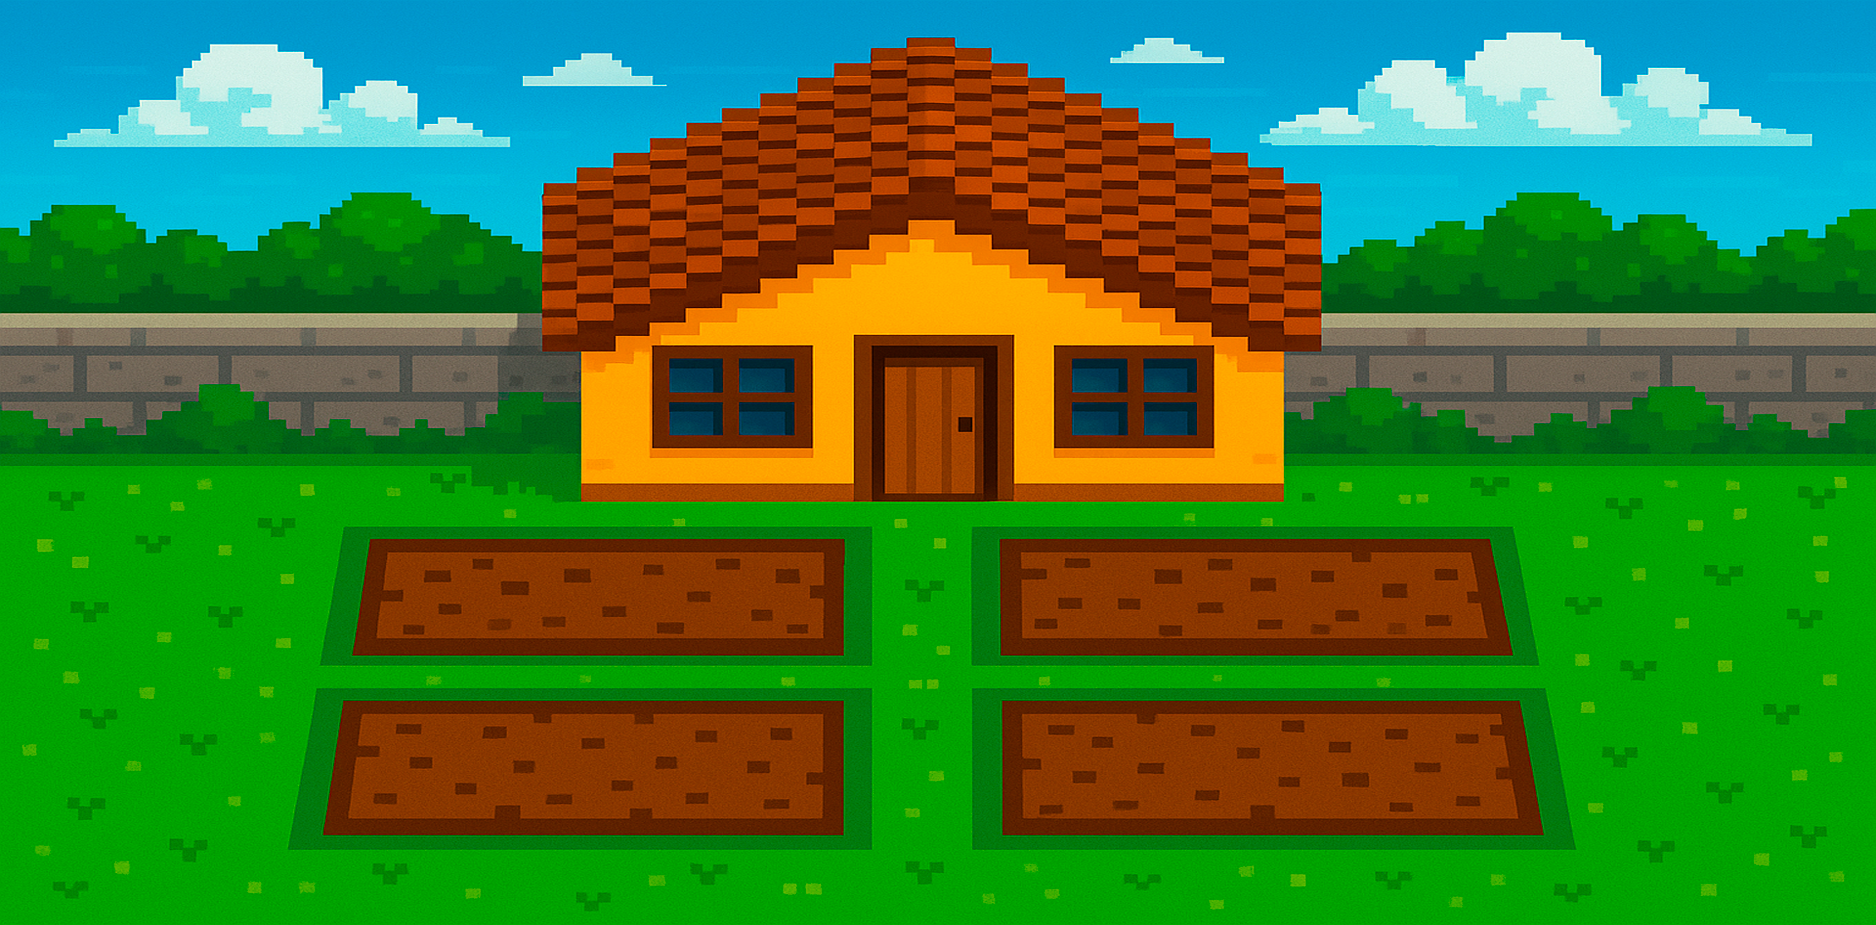
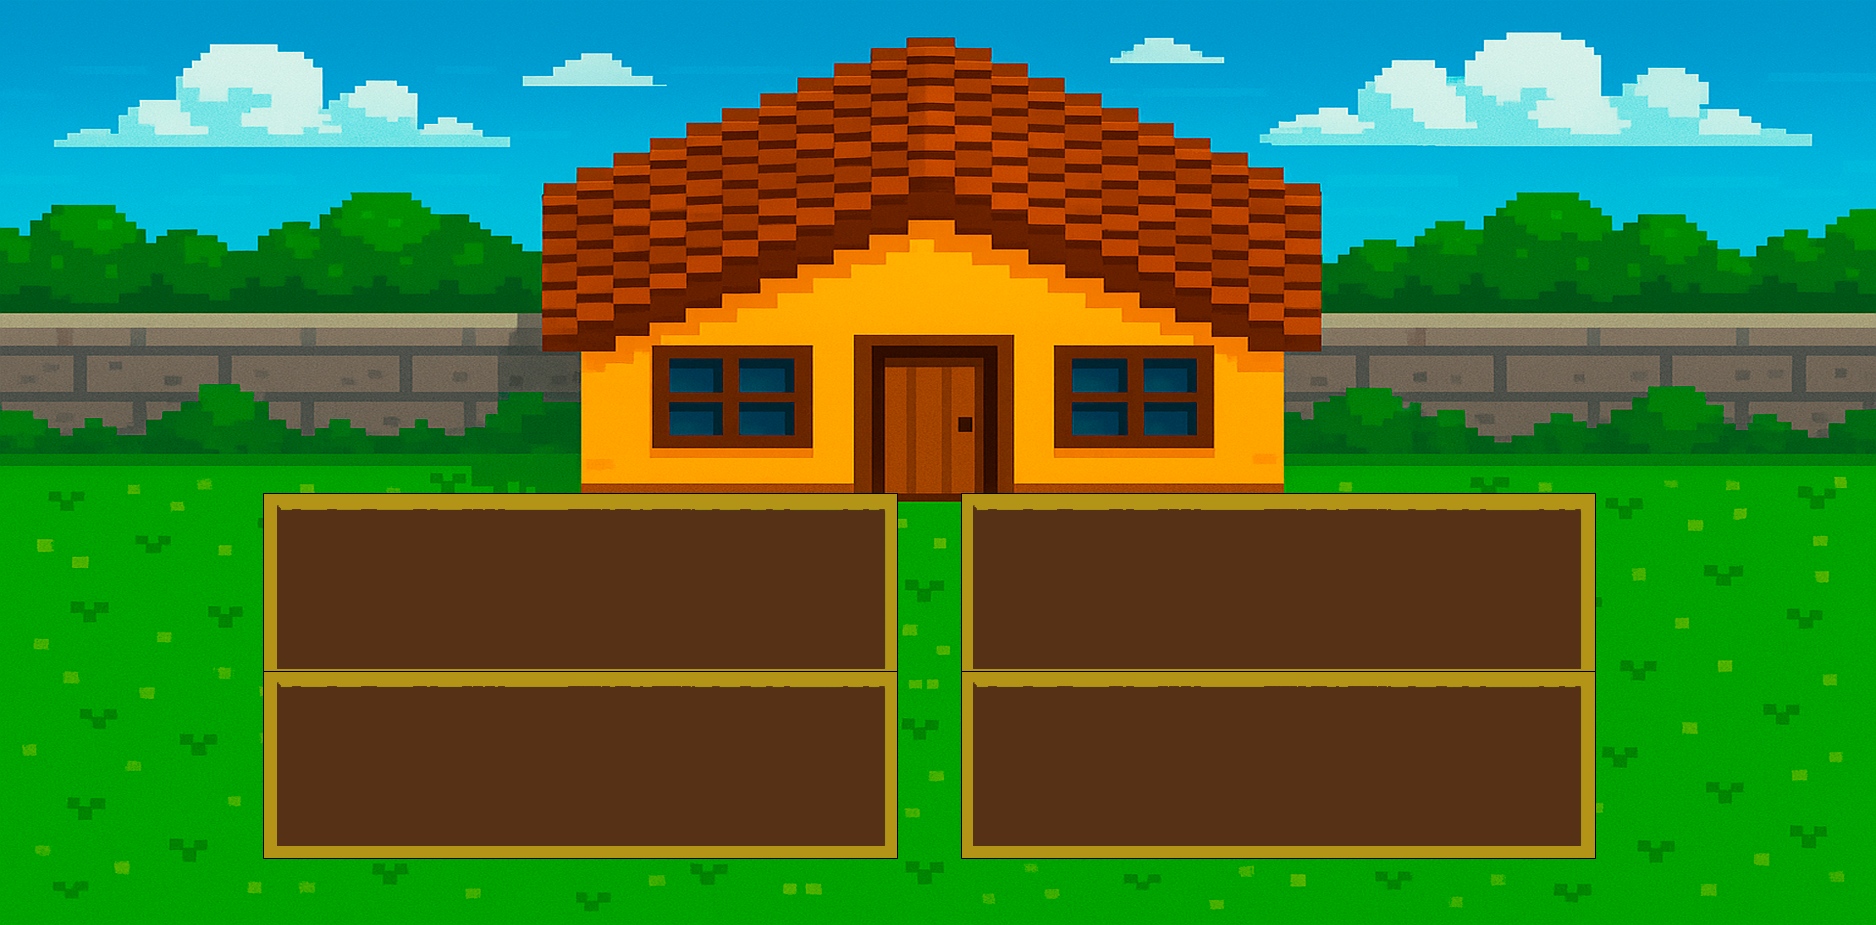
arrastavel planta do fundo de tela

Changed region(s): [[0.1237, 0.5146, 0.8657, 0.9384]]

diff --git a/src/Fundo/Fundo.js b/src/Fundo/Fundo.js
@@ -1,18 +1,68 @@
 import './Fundo.css';
+import Planta from '../Componentes/Planta';
+import planta1 from '../Imagens/planta.png'; // ajuste se necessário
+import { useState } from 'react';
 
 function Fundo() {
+  const [caixas, setCaixas] = useState({
+    caixa1: null,
+    caixa2: null,
+    caixa3: null,
+    caixa4: null,
+  });
+
+  function allowDrop(e) {
+    e.preventDefault();
+  }
+
+  function handleDrop(e, caixa) {
+    const imagem = e.dataTransfer.getData("planta");
+    setCaixas(prev => ({
+      ...prev,
+      [caixa]: imagem
+    }));
+  }
+
   return (
     <> 
-    
+      {/* <div className="inventario"> 
+        <h3>Inventário</h3>
+
+        <Planta imagem={planta1} nome="Planta 1" />
+      </div> */}
+
       <div className="ContainerGeral">
-          <div className='ContainerCaixa1'>1</div>
-          <div className='ContainerCaixa2'>2</div>
-          <div className='ContainerCaixa3'>3
-            <div class="borda-inferior"></div>
-            </div>  
-          <div className='ContainerCaixa4'>4
-            <div class="borda-inferior"></div>
-            </div> 
+        <div
+          className='ContainerCaixa1'
+          onDragOver={allowDrop}
+          onDrop={(e) => handleDrop(e, 'caixa1')}
+        >
+          {caixas.caixa1 && <img src={caixas.caixa1} alt="Planta" width="60" />}
+        </div>
+
+        <div
+          className='ContainerCaixa2'
+          onDragOver={allowDrop}
+          onDrop={(e) => handleDrop(e, 'caixa2')}
+        >
+          {caixas.caixa2 && <img src={caixas.caixa2} alt="Planta" width="60" />}
+        </div>
+
+        <div
+          className='ContainerCaixa3'
+          onDragOver={allowDrop}
+          onDrop={(e) => handleDrop(e, 'caixa3')}
+        >
+          {caixas.caixa3 && <img src={caixas.caixa3} alt="Planta" width="60" />}
+        </div>
+
+        <div
+          className='ContainerCaixa4'
+          onDragOver={allowDrop}
+          onDrop={(e) => handleDrop(e, 'caixa4')}
+        >
+          {caixas.caixa4 && <img src={caixas.caixa4} alt="Planta" width="60" />}
+        </div>
       </div>
 
       <div className="terra"></div>
@@ -21,5 +71,6 @@ function Fundo() {
 }
 
 export default Fundo;
+
 
 

diff --git a/src/Fundo/Fundo.css b/src/Fundo/Fundo.css
@@ -23,40 +23,44 @@
       gap: 10px 80px; /* Espaçamento entre caixas: vertical e horizontal */
       position: fixed;
       top: 50%;  /* Ajuste vertical */
-      left: 15%;
-      width: 1250px;
+      left: 13%;
+      width: 1350px;
       height: 380px;
 }
 .ContainerCaixa1 {
     border: solid yellow 5px;
-    position: fixed;
-    width: 550px;
-    height: 100px;
-    top: 58%;
+    position: absolute;
+    width: 615px;
+    height: 155px;
+    top: 5%; 
+    padding: 10px;
 
 }
 .ContainerCaixa2 {
    border: solid yellow 5px;
-    position: fixed;
-    width: 550px;
-    height: 100px;
-    top: 58%;
-    right: 18%;
+    position: absolute;
+    width: 615px;
+    height: 155px;
+    top: 210px;
+    padding: 10px;
  
 }
 .ContainerCaixa3 {
     border: solid yellow 5px;
-    position: relative;
-    width: 550px;
-    height: 100px;
-    top: 58%; 
+    position: absolute;
+    width: 615px;
+    height: 155px;
+    
+    left: 52%; 
+    padding: 10px;
 }
 .ContainerCaixa4 {
    border: solid yellow 5px;
     position: absolute;
-    width: 550px;
-    height: 100px;
-    top: 58%;
-    right: 2%;  
+    width: 615px;
+    height: 155px;
+    top: 210px;
+    left: 52%; 
+    padding: 10px;
 }
 

diff --git a/src/Componentes/Planta.js b/src/Componentes/Planta.js
@@ -1,0 +1,17 @@
+function Planta({ imagem, nome }) {
+  function handleDragStart(e) {
+    e.dataTransfer.setData("planta", imagem); // envia o caminho da imagem
+  }
+
+  return (
+    <div
+      className="planta"
+      draggable
+      onDragStart={handleDragStart}
+    >
+      <img src={imagem} alt={nome} width="60" />
+    </div>
+  );
+}
+
+export default Planta;
